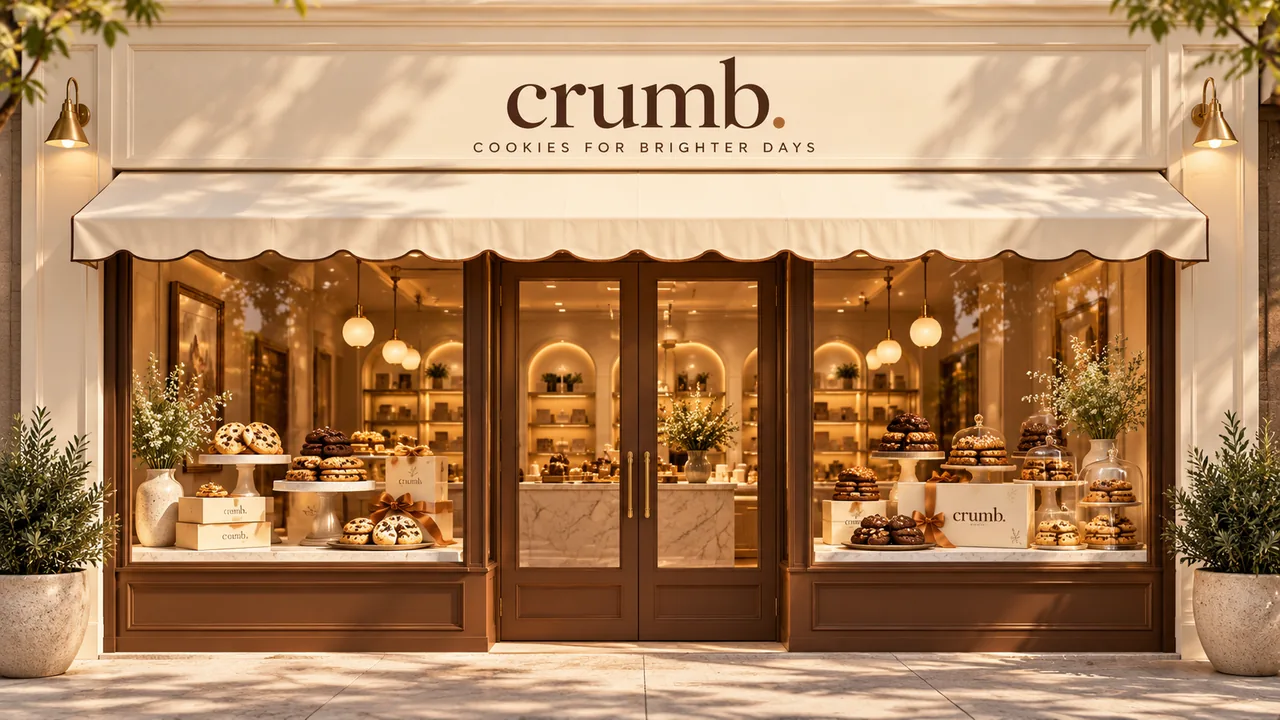
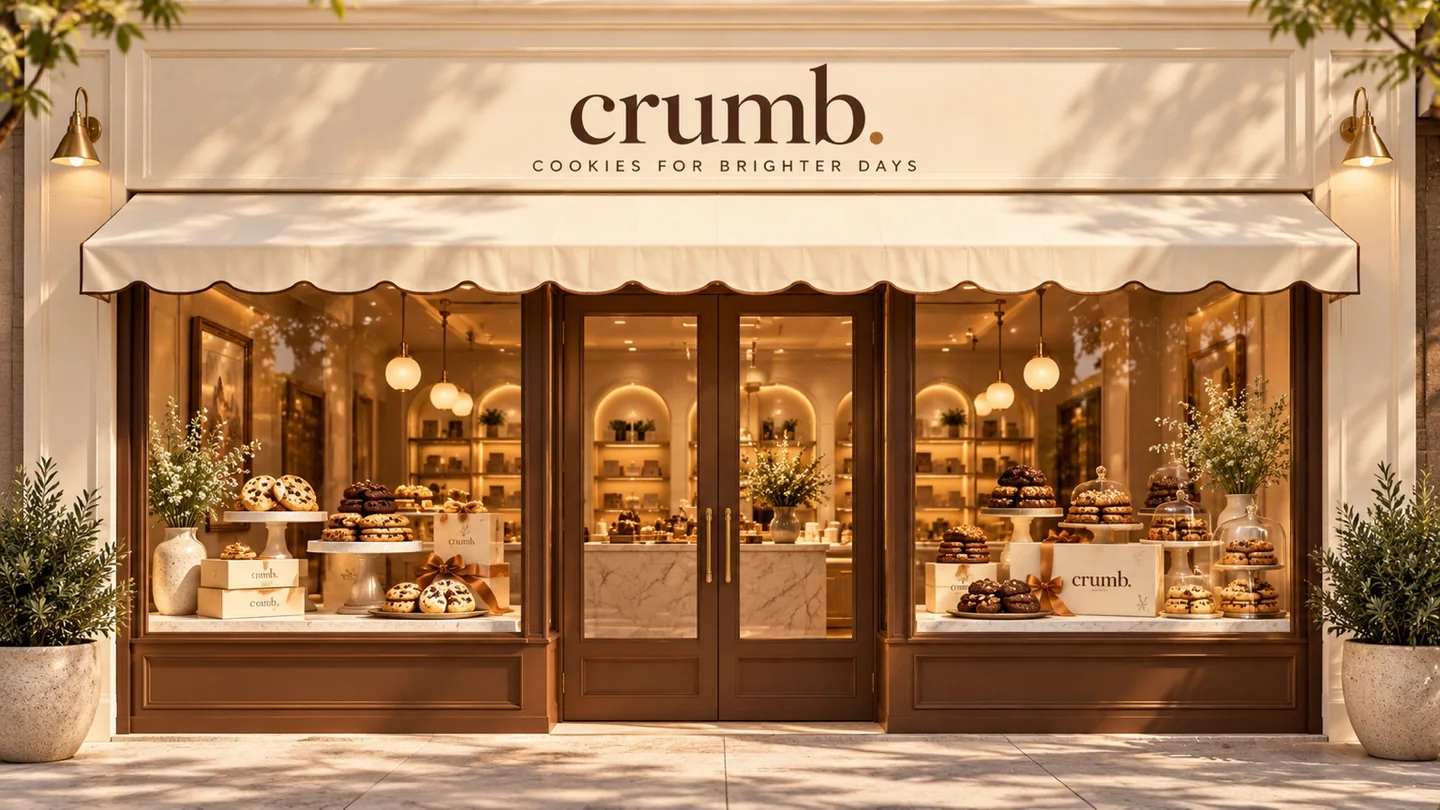
Refresh CRUMB with five nonduplicated brand photos
* Refresh CRUMB with selected nonduplicated branded imagery

* Integrate selected CRUMB imagery without repeating scenes

* Improve framing of branded shopping bag in identity gallery

* Assert unique CRUMB photo gallery and packaging asset

* Document CRUMB image selection and skipped duplicate cookie plate

* Match intrinsic image sizes to new CRUMB photos to avoid mobile layout shift

diff --git a/public/demos/crumb/index.html b/public/demos/crumb/index.html
@@ -78,7 +78,7 @@
       </div>
     </section>
     <section class="gift-section" id="gifting" aria-labelledby="gifting-title">
-      <div class="gift-photo"><img src="./assets/brand-gifts.webp?v=20261029-crumb-v5" alt="An open ivory CRUMB gift box filled with six assorted cookies, surrounded by warm ribbon and gift details" loading="lazy" decoding="async" width="1000" height="1250"></div>
+      <div class="gift-photo"><img src="./assets/brand-gifts.webp?v=20261029-crumb-v6" alt="Open CRUMB gift box holding six individually styled gourmet cookies, surrounded by matching ribbon and a greeting card" loading="lazy" decoding="async" width="1440" height="810"></div>
       <div class="gift-copy"><span class="eyebrow">A BOX OF GOOD DAYS</span><h2 id="gifting-title">A Little Gift. A Lot of Joy.</h2>
         <p>Choose their favorite cookies, pick a beautiful box, and add a personal note.</p>
         <div class="box-sizes" aria-label="Available box sizes"><span>3 cookies</span><span>6 cookies</span><span>12 cookies</span></div>
@@ -90,10 +90,10 @@
         <span class="eyebrow">THE CRUMB EXPERIENCE</span>
         <h2 id="brand-glimpse-title">A little world of good cookies.</h2>
       </div>
-      <div class="brand-glimpse-gallery" aria-label="CRUMB bakery, baking and cookies">
-        <figure><img src="./assets/brand-storefront.webp?v=20261029-crumb-v5" alt="Cream-and-espresso storefront with CRUMB signage and cookies displayed in warmly lit windows" loading="lazy" decoding="async" width="1280" height="720"><figcaption>The boutique</figcaption></figure>
-        <figure><img src="./assets/brand-maker.webp?v=20261029-crumb-v5" alt="A bakery team member in a CRUMB apron offering a tray of assorted cookies" loading="lazy" decoding="async" width="900" height="1125"><figcaption>Made with care</figcaption></figure>
-        <figure><img src="./assets/brand-tasting.webp?v=20261029-crumb-v5" alt="Close-up of gourmet chocolate and cream cookies served on a branded CRUMB ceramic plate" loading="lazy" decoding="async" width="960" height="960"><figcaption>The good stuff</figcaption></figure>
+      <div class="brand-glimpse-gallery" aria-label="CRUMB boutique, bakery team and gift packaging">
+        <figure><img src="./assets/brand-storefront.webp?v=20261029-crumb-v6" alt="CRUMB cookie boutique storefront with cream awning, chocolate-brown framing and warm cookie displays" loading="lazy" decoding="async" width="1440" height="810"><figcaption>The boutique</figcaption></figure>
+        <figure><img src="./assets/brand-maker.webp?v=20261029-crumb-v6" alt="Smiling CRUMB baker in an ivory branded apron presenting six freshly baked cookie flavors" loading="lazy" decoding="async" width="900" height="1125"><figcaption>Made with care</figcaption></figure>
+        <figure><img src="./assets/brand-packaging.webp?v=20261029-crumb-v6" alt="Cream CRUMB shopping bag with dark chocolate-brown handles beside ribbon-tied gift boxes and cookies" loading="lazy" decoding="async" width="1122" height="1402"><figcaption>Beautifully boxed</figcaption></figure>
       </div>
     </section>
     <section class="delivery-section content-width" id="delivery" aria-labelledby="delivery-title">
@@ -128,7 +128,7 @@
       </div>
     </div>
     <section class="moment" aria-labelledby="moment-title">
-      <div class="moment-photo"><img src="./assets/brand-lifestyle.webp?v=20261029-crumb-v5" alt="A woman enjoying a large chocolate chip cookie outside the warm CRUMB bakery with an open gift box on the table" loading="lazy" decoding="async" width="940" height="1175"></div>
+      <div class="moment-photo"><img src="./assets/brand-lifestyle.webp?v=20261029-crumb-v6" alt="Woman enjoying a large chocolate chip cookie outside CRUMB bakery with a branded gift box on the café table" loading="lazy" decoding="async" width="940" height="1175"></div>
       <div class="moment-copy"><span class="eyebrow">THE GOOD MOMENTS</span><h2 id="moment-title">Happiness Tastes Better Shared.</h2><p>Some moments are better with a cookie.</p></div>
     </section>
     <section class="final-cta" aria-labelledby="final-title">

diff --git a/public/demos/crumb/styles.css b/public/demos/crumb/styles.css
@@ -514,3 +514,7 @@ textarea { width: 100%; padding: 12px; border: 1px solid #cbb8a5; background: #f
 @media (prefers-reduced-motion:reduce) {
   .brand-glimpse-gallery { scroll-behavior:auto; }
 }
+
+/* Photo update: unique gift packaging completes the compact three-image identity story. */
+.brand-glimpse-gallery figure:nth-child(3) img { object-position: center 55%; }
+@media (max-width:600px) {.brand-glimpse-gallery figure:nth-child(3) img { object-position:center 55%; }}

diff --git a/public/demos/crumb/README.md b/public/demos/crumb/README.md
@@ -46,3 +46,9 @@ The hero image at `assets/hero.webp` is replaced in-place with the owner's appro
 - The portrait interior cookie-counter photo is used only by a `picture/source` media query in the mobile hero. Desktop keeps the previously approved wide `hero.webp`.
 - The branded gift-box photo replaces the older gifting image and the CRUMB lifestyle photo replaces the older portrait; the remaining photos appear in a compact three-image editorial strip with swipe on phones, avoiding a long stacked gallery.
 - Text headings, marketing copy and principal actions are centered, especially on mobile. Flavor selectors and live gift-box logic are unchanged; no checkout/payments/real GPS are introduced. The existing six flavor product photos remain intact.
+
+## Selección de fotografías sin repetición (29 oct)
+- Se sustituyeron las imágenes anteriores de fachada, regalo, persona y equipo por las cuatro fotos nuevas aprobadas; ninguna escena de esas categorías aparece dos veces en la página.
+- La quinta foto nueva es la bolsa CRUMB (`brand-packaging.webp`), que **reemplaza** la foto de plato de cookies en la galería de identidad. Así la galería compacta muestra fachada, equipo y packaging, no otro producto servido.
+- La sexta imagen recibida (plato con tres cookies) se omitió expresamente por redundancia; no se añadió una sección extra.
+- Las seis fotos individuales del catálogo de sabores y el hero móvil aprobado permanecen sin cambios. Imágenes conceptuales, no prueba de tienda real.
